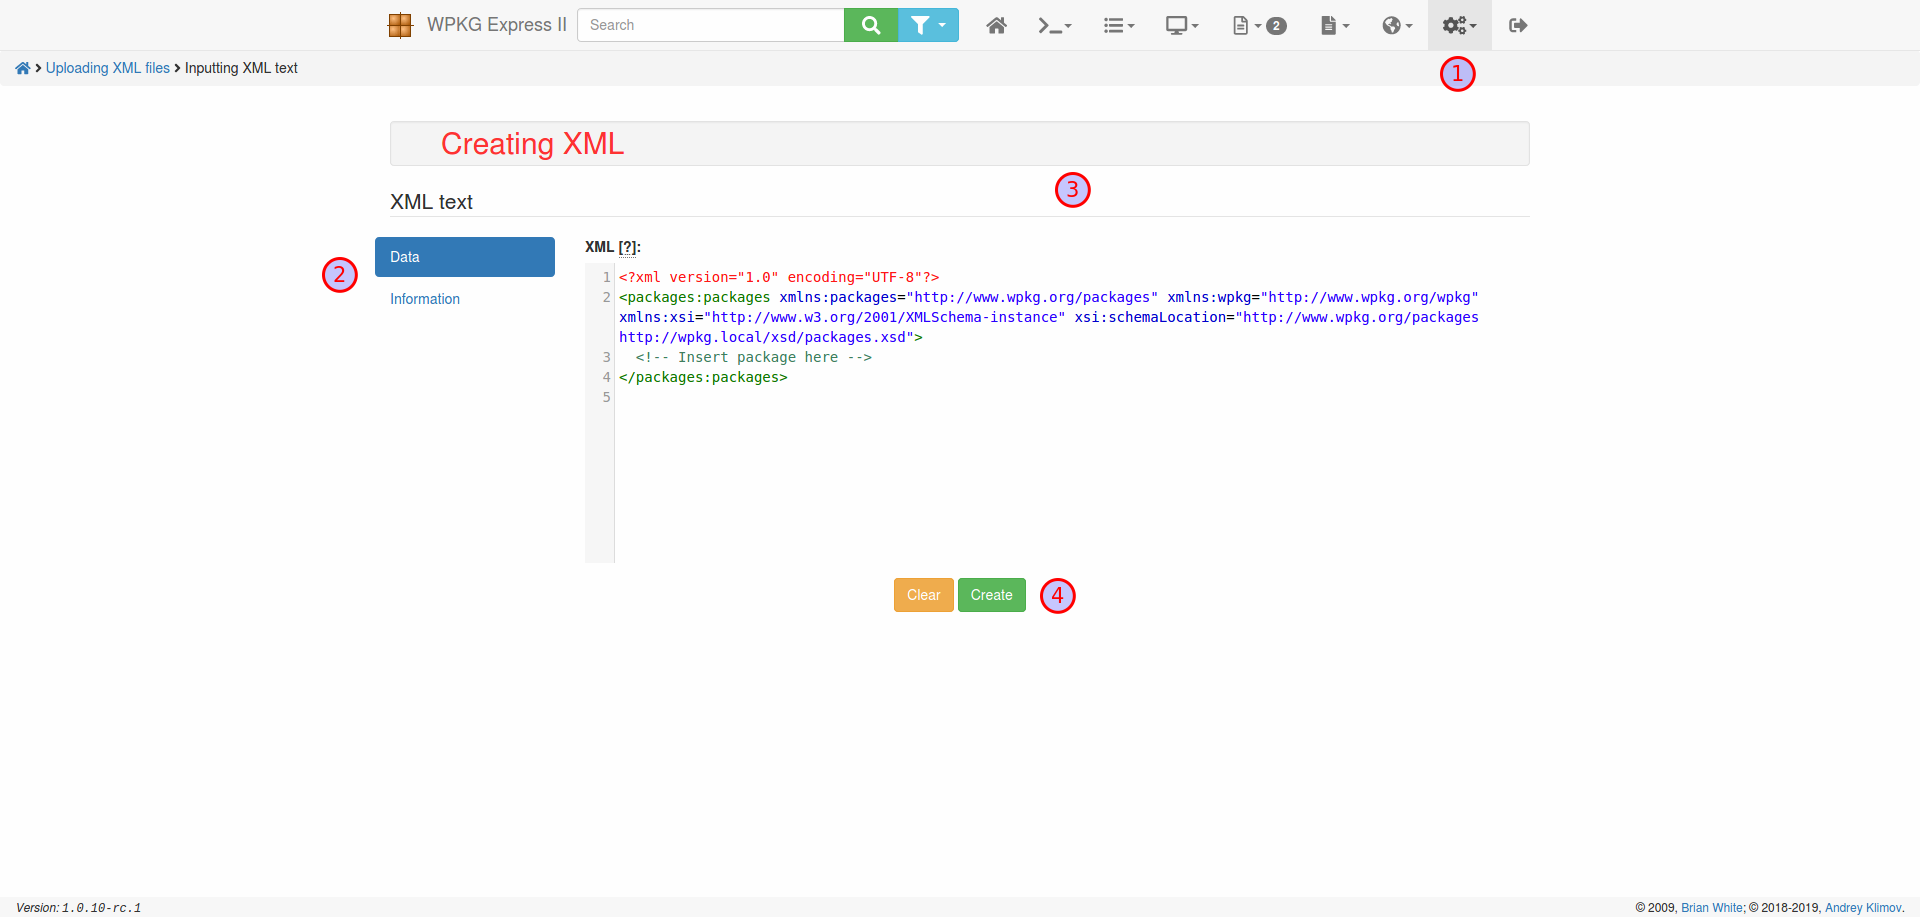
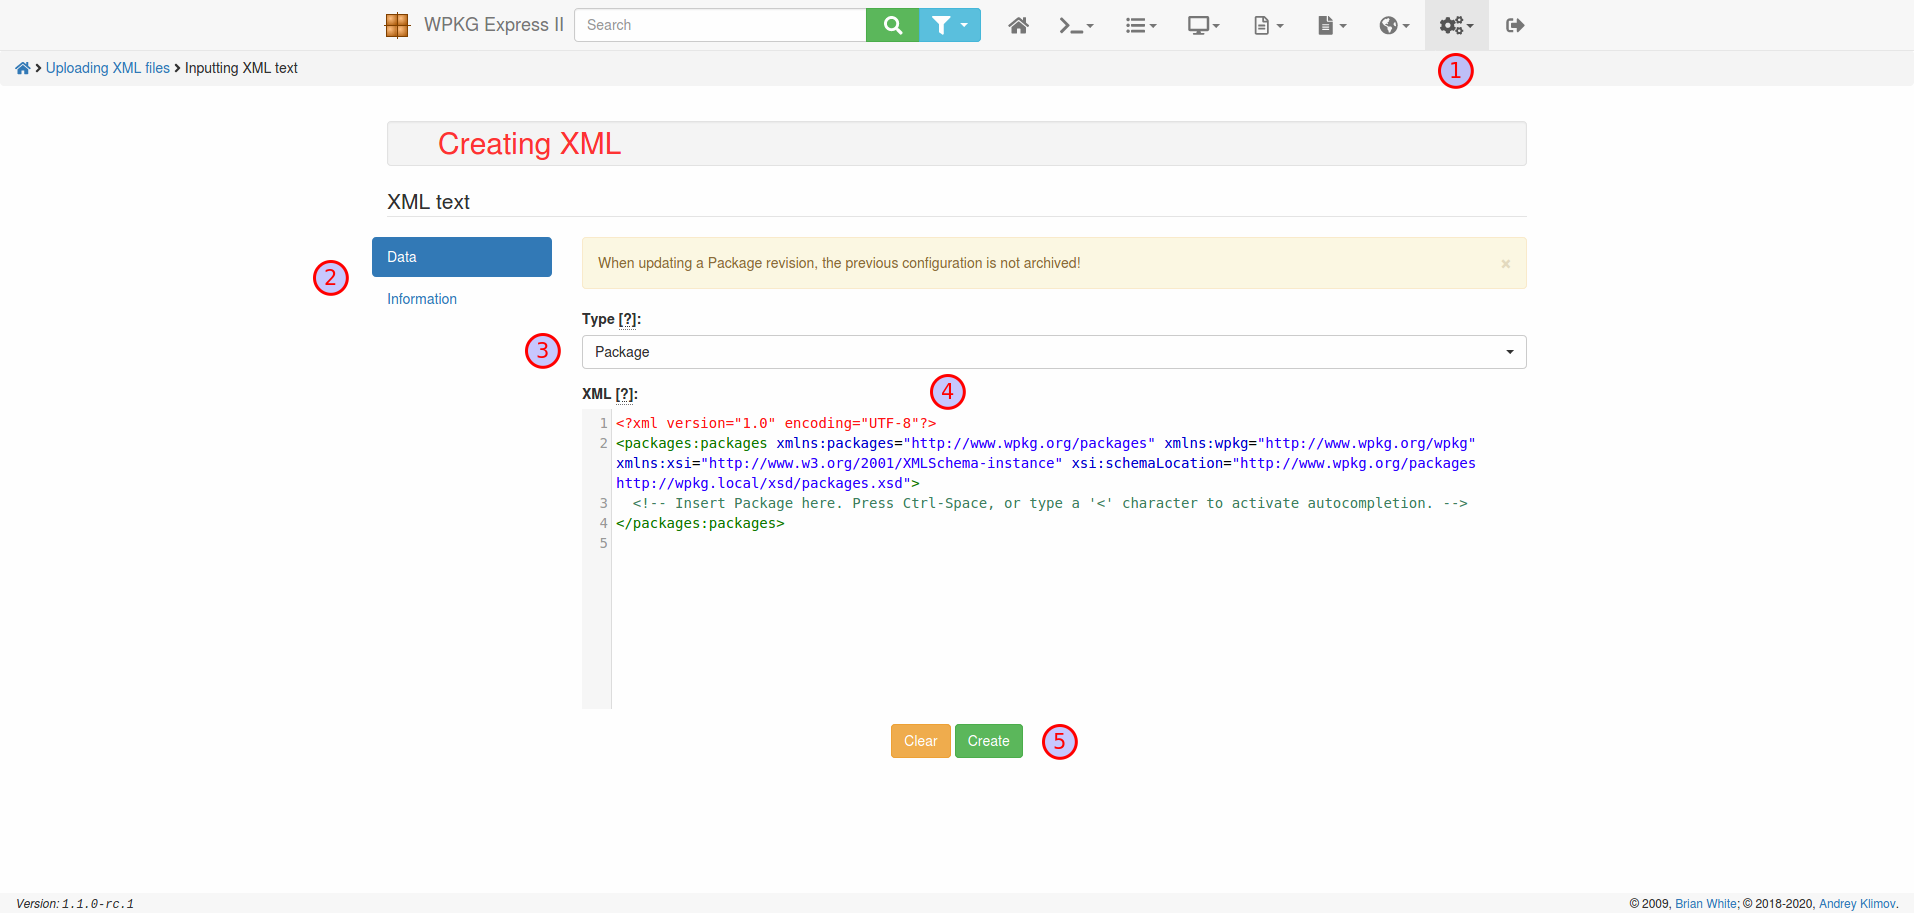
chg: dev: Updated documentation

diff --git a/docs/presentation.html b/docs/presentation.html
@@ -82,13 +82,13 @@ layout: false
 .right-column[
 WPKG implementation will require:
 
-- A server with the Domain Controller role for:
+- A server with the Domain Controller role (Ldap server) for:
 
-  * Authentication;
+  * Authentication (only "Active Directory");
 
   * WPKG client deployments using Group Policy;
 
-  * Receiving a list of active client computers.
+  * Receiving a list of active client computers ("Active Directory", "Samba" or "OpenLDAP").
 
 - File server with shared SMB resources for:
 
@@ -97,10 +97,26 @@ WPKG implementation will require:
   * WPKG Script Log files;
 
   * WPKG Script Database files.
+]
+---
+layout: false
+.left-column[
+  ## WPKG Infrastructure
+]
+.right-column[
+WPKG implementation will require:
 
-- Web server and database server for WEB Interface (WPKG Express 2);
+- Web server and database server ("MySQL" or "Postgres") for WEB Interface (WPKG Express 2);
 
 - Client computers containing a WPKG script and a WPKG client.
+
+Not necessary:
+
+- [GraphViz](https://www.graphviz.org) to create dependency graph of "Packages", "Profiles" and "Hosts";
+
+- [smbclient](https://www.samba.org/samba/docs/current/man-html/smbclient.1.html) to access log files and databases of client computers for parsing content;
+
+- SMTP Server to send mail notifications to the administrator.
 ]
 ---
 template: inverse
@@ -163,7 +179,9 @@ name: packages-index
 
 - To perform a group operation on the selected packages, press the button (7). To perform the operation, press the button (8). To select all rows, press the button (9);
 
-- To change the number of displayed packages on the page, select the required value from the list (10).
+- To change the number of displayed packages on the page, select the required value from the list (10);
+
+- To clear the saved state of the filter (11), sort order (6) and number of lines on the page (10), click on the link "Packages" in breadcrumbs (13).
 ]
 ---
 name: packages-edit
@@ -286,16 +304,47 @@ name: packages-preview-xml
 .right-column[
 - If the package configuration XML (2) does not pass the validation scheme, lines containing errors will be highlighted;
 
-- To download the package configuration XML file, use the "operations menu" (1).
+- To download or edit the package configuration XML file, use the "operations menu" (1).
 ]
 ---
-name: packages-view-graph
+name: packages-edit-xml
 .left-column[
   ## Packages
   ### - Add / edit package
   ### - Create a package based on a template
   ### - View package information
   ### - Preview XML package
+  ### - Edit XML package
+]
+.right-column[
+.center[[![Edit XML package]({{ site.baseurl }}/img/packages-edit-xml.png)]({{ site.baseurl }}/img/packages-edit-xml.png)]
+]
+---
+.left-column[
+  ## Packages
+  ### - Add / edit package
+  ### - Create a package based on a template
+  ### - View package information
+  ### - Preview XML package
+  ### - Edit XML package
+]
+.right-column[
+- To start editing, place the cursor in the editor window (1);
+
+- Press Ctrl-Space, or type a "&lt;" character to activate autocompletion;
+
+- Press Ctrl-J to jump to the tag that matches the one under the cursor;
+
+- To save the information, use the button (2).
+]
+---
+name: packages-view-graph
+.left-column[
+  ## Packages
+  ### - Create a package based on a template
+  ### - View package information
+  ### - Preview XML package
+  ### - Edit XML package
   ### - View package relationship graph
 ]
 .right-column[
@@ -307,10 +356,10 @@ name: packages-view-graph
 ---
 .left-column[
   ## Packages
-  ### - Add / edit package
   ### - Create a package based on a template
   ### - View package information
   ### - Preview XML package
+  ### - Edit XML package
   ### - View package relationship graph
 ]
 .right-column[
@@ -324,9 +373,9 @@ name: packages-view-graph
 name: packages-view-chart
 .left-column[
   ## Packages
-  ### - Create a package based on a template
   ### - View package information
   ### - Preview XML package
+  ### - Edit XML package
   ### - View package relationship graph
   ### - View chart of the installed versions
 ]
@@ -342,8 +391,8 @@ name: packages-view-chart
 name: packages-additional-information
 .left-column[
   ## Packages
-  ### - View package information
   ### - Preview XML package
+  ### - Edit XML package
   ### - View package relationship graph
   ### - View chart of the installed versions
   ### - Additional information
@@ -368,8 +417,8 @@ name: packages-additional-information
 ---
 .left-column[
   ## Packages
-  ### - View package information
   ### - Preview XML package
+  ### - Edit XML package
   ### - View package relationship graph
   ### - View chart of the installed versions
   ### - Additional information
@@ -522,6 +571,46 @@ name: reports-index
   When clicked, a window opens for viewing all the reports of the corresponding state.
 ]
 ---
+name: mail-error-reporting
+.left-column[
+  ## Emails
+  ### - Error reporting
+]
+.right-column[
+.center[[![Error reporting]({{ site.baseurl }}img/mail-error-reporting.png)]({{ site.baseurl }}img/mail-error-reporting.png)]
+- Error reports are sent out when parsing log files located in the SMB share;
+
+- The email contains the following information (1):
+
+  * Hostname;
+
+  * Error type;
+
+  * Error text;
+
+  * Date the error occurred.
+
+- To [view](#logs-index) a complete list of error reports, click (2). 
+]
+---
+name: mail-disabled-unused
+.left-column[
+  ## Emails
+  ### - Error reporting
+  ### - Disabled unused hosts and profiles
+]
+.right-column[
+.center[[![Error reporting]({{ site.baseurl }}img/mail-disabled-unused.png)]({{ site.baseurl }}img/mail-disabled-unused.png)]
+- In order to disable unused Hosts and Profiles, select the menu item "Hosts" &rarr; "Disable unused";
+
+- The information for processing is obtained by comparing the list of active computer names received from the LDAP Server with the list of active Host and Profile.
+  Host names are compared as [Regular expressions](https://en.wikipedia.org/wiki/Regular_expression).
+
+- The email contains the following information (1):
+
+  * List of names of processed Hosts and Profiles.
+]
+---
 name: creating-config-wpkg
 .left-column[
   ## WPKG service
@@ -577,9 +666,24 @@ name: creating-config-wpkg
 
 - Use the tabs for more information (2);
 
-- Enter XML in the editor field (3). If the WPKG configuration XML does not pass the validation scheme, lines containing errors will be highlighted;
+- Select the required XML template type from the list (3).
+]
+---
+name: creating-config-wpkg
+.left-column[
+  ## WPKG service
+  ### - Creating a configuration file for WPKG
+  ### - Global variables list management
+  ### - XML creation in the editor
+]
+.right-column[
+- Enter XML in the editor field (4). If the WPKG configuration XML does not pass the validation scheme, lines containing errors will be highlighted;
 
-- To process the configuration or clear the editor, use the buttons (4).
+- Press Ctrl-Space, or type a "&lt;" character to activate autocompletion;
+
+- Press Ctrl-J to jump to the tag that matches the one under the cursor;
+
+- To process the configuration or clear the editor, use the buttons (5).
 ]
 ---
 name: links

diff --git a/docs/index.md b/docs/index.md
@@ -37,7 +37,8 @@ See the project [presentation](https://anklimsk.github.io/wpkg-express-2/present
 - Creates copy of a package, profile and host;
 - Preview XML configuration files for WPKG with validating XML schema;
 - Download and upload XML configuration files for WPKG with validating XML schema;
-- Creates an XML configuration for WPKG using an editor with validating XML schema;
+- Creates and edit XML configuration for WPKG using an editor with validating XML schema and
+  autocompletion based on XML schema;
 - Build a relationship graph for package, profile, and host;
 - Build a relationship graph for host by name;
 - Maintaining archive version of the package with the ability to switch to version;
@@ -50,11 +51,12 @@ See the project [presentation](https://anklimsk.github.io/wpkg-express-2/present
 ## Requirements
 
 - Apache module `mod_rewrite`;
-- PHP 5.4 or greater (up to 7.4);
+- PHP `5.4` or greater (up to `7.4`);
 - PHP Extensions: `pdo`, `ldap`, `bz2`, `xml` and `openssl`;
-- Ldap server (`Active Directory`,`Samba` or `OpenLDAP`) to authenticate
-  (only `Active Directory`) and get a list of computers to create `Profiles` and `Hosts` from template;
-- Database server (`MySQL`, `Postgres`).
+- Ldap server (`Active Directory`, `Samba` or `OpenLDAP`) to authenticate
+  (only `Active Directory`) and get a list of computers to create `Profiles` and `Hosts`
+  based on a template;
+- Database server (`MySQL` or `Postgres`).
 
 ### Not necessary
 
@@ -62,7 +64,8 @@ See the project [presentation](https://anklimsk.github.io/wpkg-express-2/present
 - [GraphViz](https://www.graphviz.org) to create dependency graph of `Packages`, `Profiles`
   and `Hosts`;
 - [smbclient](https://www.samba.org/samba/docs/current/man-html/smbclient.1.html) to access
-  log files and databases of client computers.
+  log files and databases of client computers for parsing content;
+- SMTP Server to send mail notifications to the administrator.
 
 ## Installation
 
@@ -78,7 +81,9 @@ See the project [presentation](https://anklimsk.github.io/wpkg-express-2/present
   and that `AllowOverride` is set to `All` for the correct DocumentRoot. For users having apache
   2.4 and above, you need to modify the configuration file for your `httpd.conf`
   or virtual host configuration to look like the following:
-  ```apacheconf
+  ```text
+  DocumentRoot /var/www/wpkg/app/webroot
+  
   <Directory /var/www/wpkg>
        Options FollowSymLinks
        AllowOverride All
@@ -104,11 +109,11 @@ See the project [presentation](https://anklimsk.github.io/wpkg-express-2/present
 
 ## Update
 
-[Update frontend to WPKG](docs/update.md)
+[Update frontend to WPKG](update.md)
 
 ## Using
 
-[Using this frontend to WPKG](docs/using.md)
+[Using this frontend to WPKG](using.md)
 
 ## Links
 

diff --git a/README.md b/README.md
@@ -37,7 +37,8 @@ See the project [presentation](https://anklimsk.github.io/wpkg-express-2/present
 - Creates copy of a package, profile and host;
 - Preview XML configuration files for WPKG with validating XML schema;
 - Download and upload XML configuration files for WPKG with validating XML schema;
-- Creates an XML configuration for WPKG using an editor with validating XML schema;
+- Creates and edit XML configuration for WPKG using an editor with validating XML schema and
+  autocompletion based on XML schema;
 - Build a relationship graph for package, profile, and host;
 - Build a relationship graph for host by name;
 - Maintaining archive version of the package with the ability to switch to version;
@@ -50,11 +51,12 @@ See the project [presentation](https://anklimsk.github.io/wpkg-express-2/present
 ## Requirements
 
 - Apache module `mod_rewrite`;
-- PHP 5.4 or greater (up to 7.4);
+- PHP `5.4` or greater (up to `7.4`);
 - PHP Extensions: `pdo`, `ldap`, `bz2`, `xml` and `openssl`;
-- Ldap server (`Active Directory`,`Samba` or `OpenLDAP`) to authenticate
-  (only `Active Directory`) and get a list of computers to create `Profiles` and `Hosts` from template;
-- Database server (`MySQL`, `Postgres`).
+- Ldap server (`Active Directory`, `Samba` or `OpenLDAP`) to authenticate
+  (only `Active Directory`) and get a list of computers to create `Profiles` and `Hosts`
+  based on a template;
+- Database server (`MySQL` or `Postgres`).
 
 ### Not necessary
 
@@ -62,7 +64,8 @@ See the project [presentation](https://anklimsk.github.io/wpkg-express-2/present
 - [GraphViz](https://www.graphviz.org) to create dependency graph of `Packages`, `Profiles`
   and `Hosts`;
 - [smbclient](https://www.samba.org/samba/docs/current/man-html/smbclient.1.html) to access
-  log files and databases of client computers.
+  log files and databases of client computers for parsing content;
+- SMTP Server to send mail notifications to the administrator.
 
 ## Installation
 
@@ -79,6 +82,8 @@ See the project [presentation](https://anklimsk.github.io/wpkg-express-2/present
   2.4 and above, you need to modify the configuration file for your `httpd.conf`
   or virtual host configuration to look like the following:
   ```apacheconf
+  DocumentRoot /var/www/wpkg/app/webroot
+  
   <Directory /var/www/wpkg>
        Options FollowSymLinks
        AllowOverride All

diff --git a/docs/update.md b/docs/update.md
@@ -18,4 +18,6 @@
 6. Navigate to the directory `app` application (`/var/www/wpkg/app`),
   and run the following command: `sudo ./Console/cake CakeInstaller install`
   for re-install frontend to WPKG.
-7. Upload saved XML configuration file for WPKG.
+7. Answer `Yes` to the request to re-create the application database schema.
+8. Answer `No` to the request to delete database tables.
+9. Upload saved XML configuration file for WPKG.
